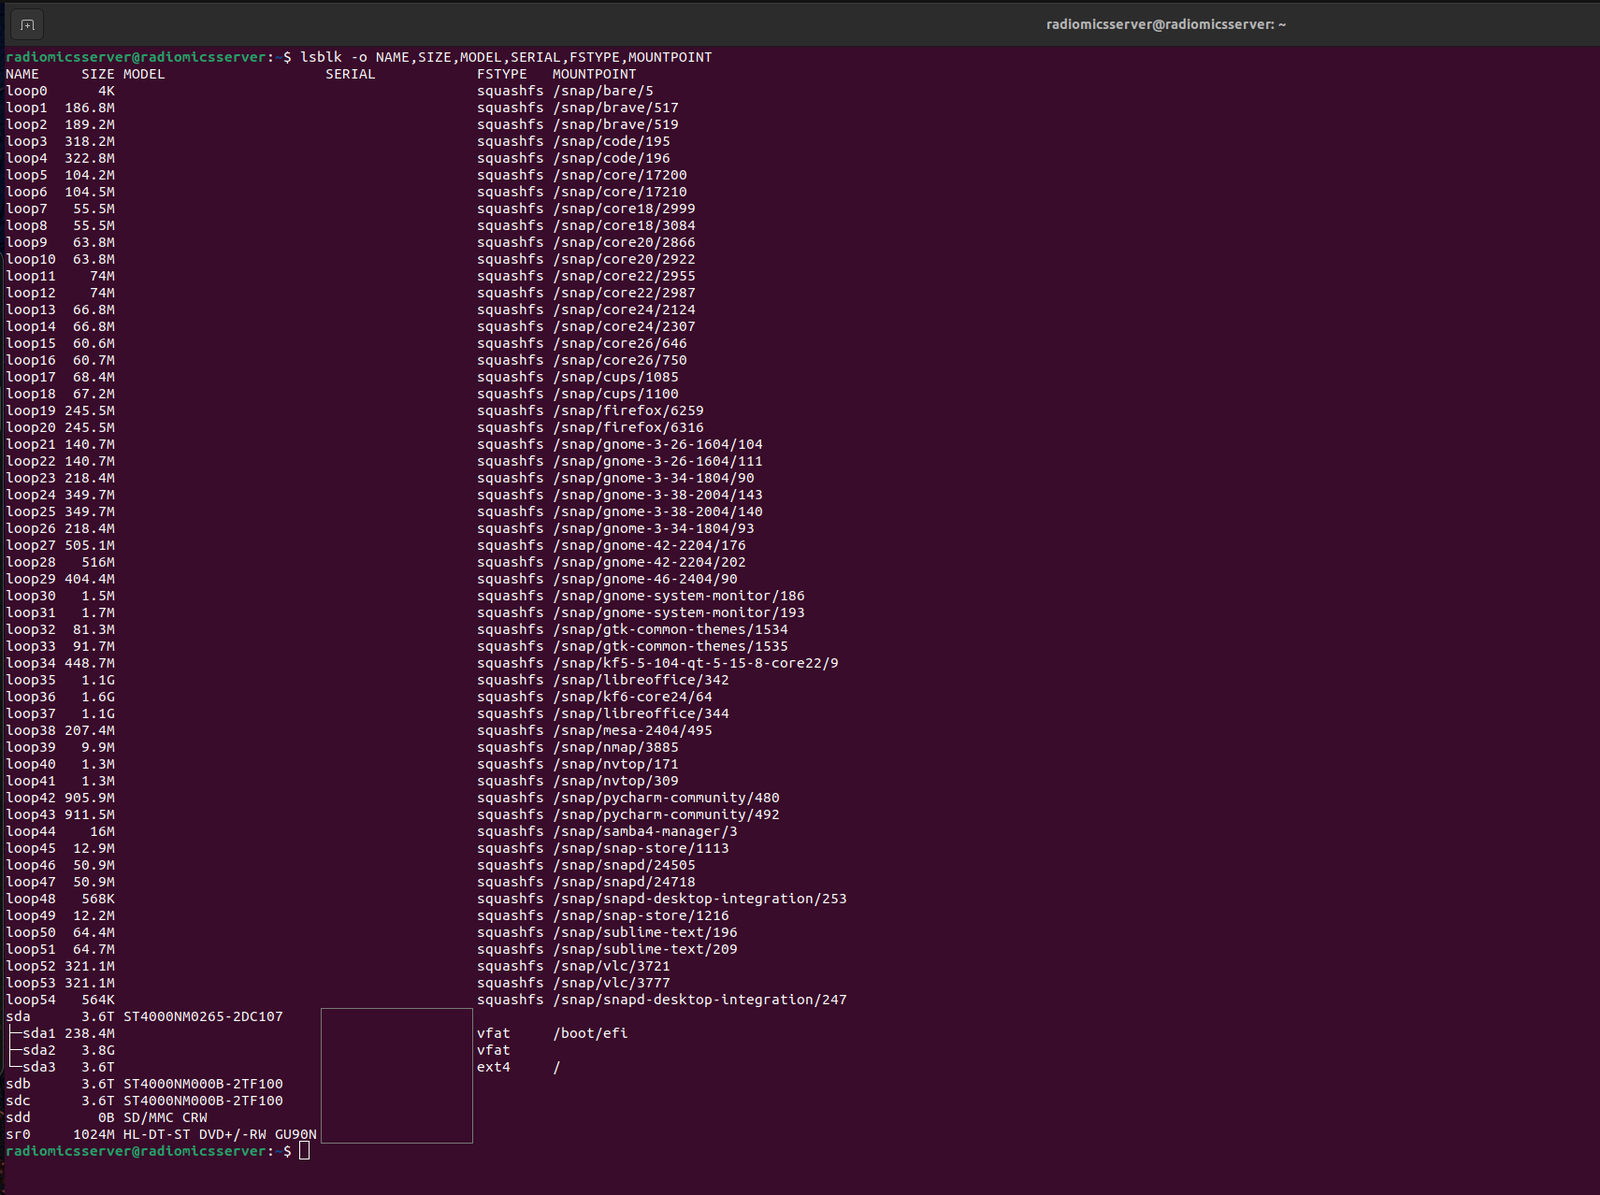
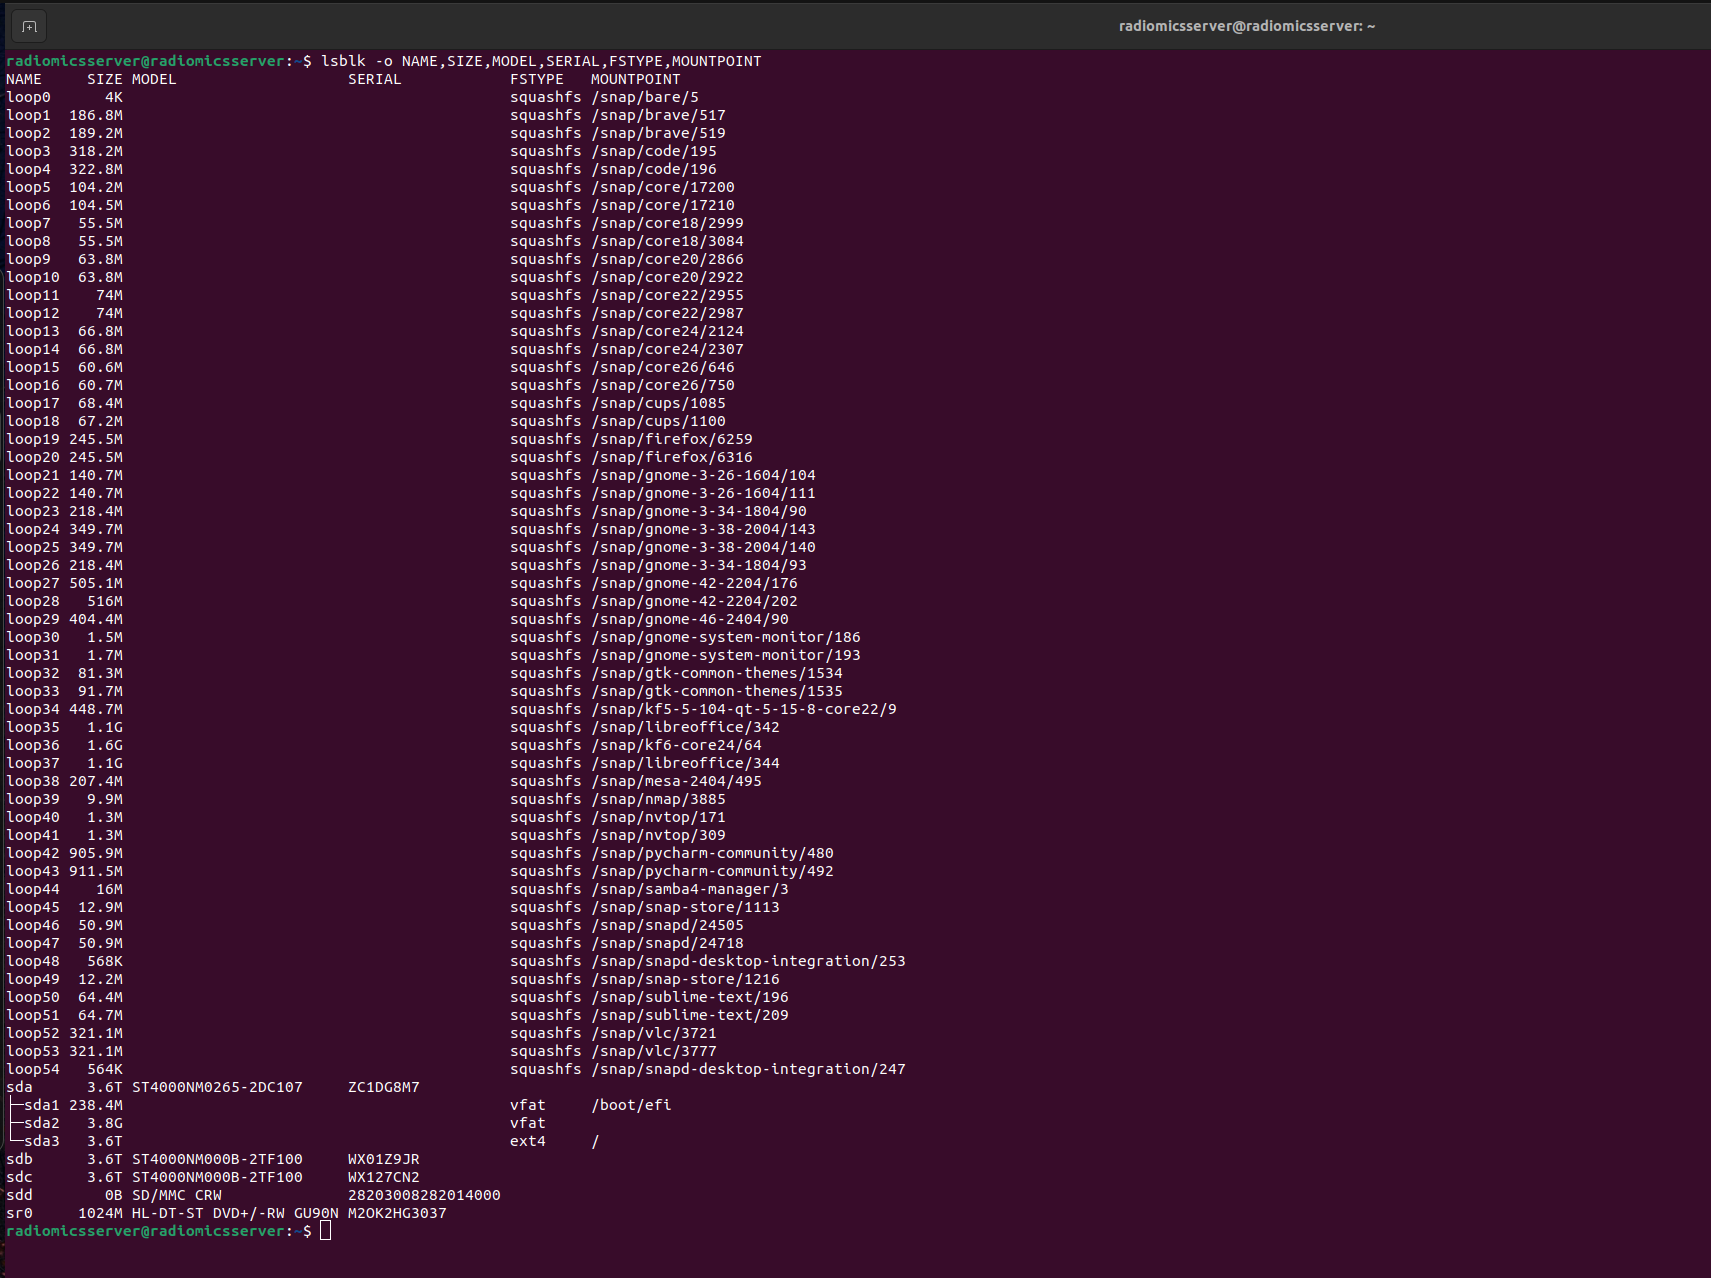
Use the original lsblk screenshot (no redaction box)
Claude-Session: https://claude.ai/code/session_01MBfs784ENdN2jc1gcvs5SA

diff --git a/README.md b/README.md
@@ -75,7 +75,7 @@ Replace `sdX` with your new drive. Double-check it before every destructive comm
 
 Screenshots from the real installation are embedded in the guide at the step they belong to. A few highlights:
 
-**1. Identify the drives with `lsblk`.** The system drive `sda` has partitions and mount points; the new drives `sdb` and `sdc` are empty. (Serial numbers hidden.)
+**1. Identify the drives with `lsblk`.** The system drive `sda` has partitions and mount points; the new drives `sdb` and `sdc` are empty.
 
 ![lsblk output showing the system drive and two empty new drives](docs/images/02-lsblk-new-drives.png)
 

diff --git a/docs/01-step-by-step-guide.md b/docs/01-step-by-step-guide.md
@@ -30,7 +30,7 @@ sdb    3.6T ST4000NM000B-2TF100  <serial>
 sdc    3.6T ST4000NM000B-2TF100  <serial>
 ```
 
-Screenshot from the real installation (the long list of `loop` entries at the top are Snap package images and can be ignored; the drive serial numbers have been hidden in this picture):
+Screenshot from the real installation (the long list of `loop` entries at the top are Snap package images and can be ignored):
 
 ![Terminal output of lsblk showing sda with partitions mounted at / and /boot/efi, and sdb and sdc as empty 3.6T drives](images/02-lsblk-new-drives.png)
 
